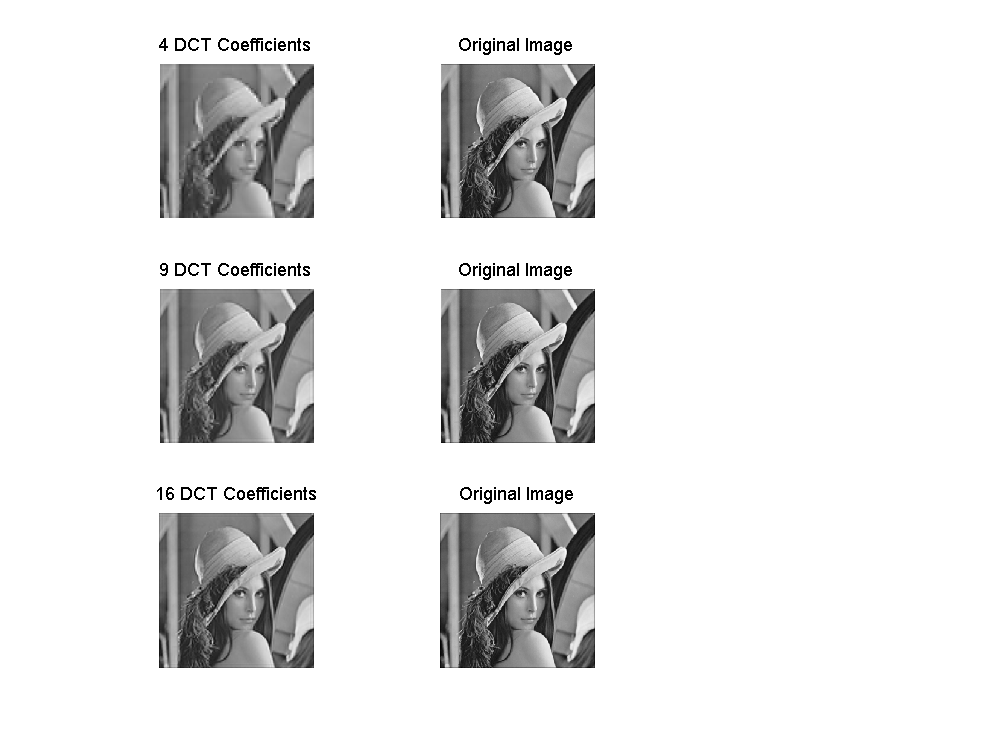
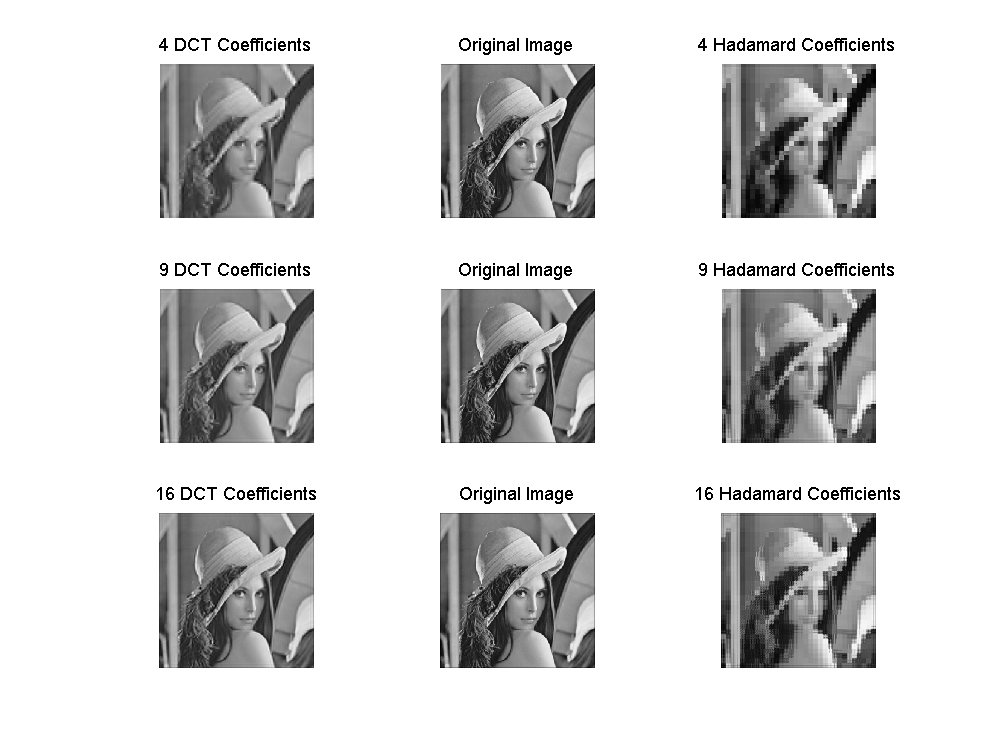
Maybe working. Turning in

Changed region(s): [[0.713, 0.0307, 0.899, 0.3067], [0.713, 0.3373, 0.899, 0.6133], [0.682, 0.644, 0.899, 0.8893]]

diff --git a/Proj4.m b/Proj4.m
@@ -63,48 +63,51 @@ fprintf('MSE for zonal_4: %.2f\n', zonal_4.mse);
 fprintf('MSE for zonal_9: %.2f\n', zonal_9.mse);
 fprintf('MSE for zonal_16: %.2f\n', zonal_16.mse);
 
-saveFigs(fig2, 'ZonalSampling.png', 'png');
 
 %% 1.3 Hadamard
 
-% H = (1/sqrt(8)) * hadamard(blocksize(1));
-% 
-% fun = @(block_struct) hadamard(block_struct.data);
-% lenaH = blockproc(lena_original, blocksize, fun);
-% 
-% 
-
 H = (1/sqrt(8))*hadamard(8);
+Zero = zeros(8);
+Mask4 = Zero;
+Mask9 = Zero;
+Mask16 = Zero;
+Mask4(1:2, 1:2) = 1;
+Mask9(1:3, 1:3) = 1;
+Mask16(1:4, 1:4) = 1;
 
 % 4 Coefficients
-% lenaH = blkproc(lena_original, [8,8], 'P1*x*P2', H, H');
-% fun = @(block_struct) zonal_4.maskcoeff .* block_struct.data;
-% lena4H = blockproc(lenaH, [8 8], fun);
-% lena4H = blkproc(lena4H, [8,8], 'P1*x*P2', H, H');
-figure(3)
-hadamard4 = hadamard_transform(lena_original, blocksize, 4);
-imshow(hadamard4,[]);
-% 
-% subplot(3, 3, 3);
-% imshow(lena4H, []);
-% title('4 Hadamard Coefficients')
-% 
-% % 9 Coefficients
-% lenaH = blkproc(lena_original, [8,8], 'P1*x*P2', H, H');
-% fun = @(block_struct) zonal_9.maskcoeff .* block_struct.data;
-% lena9H = blockproc(lenaH, [8 8], fun);
-% lena9H = blkproc(lena9H, [8,8], 'P1*x*P2', H, H');
-% 
-% subplot(3, 3, 6);
-% imshow(lena9H, []);
-% title('9 Hadamard Coefficients')
-% 
-% % 9 Coefficients
-% lenaH = blkproc(lena_original, [8,8], 'P1*x*P2', H, H');
-% fun = @(block_struct) zonal_16.maskcoeff .* block_struct.data;
-% lena16H = blockproc(lenaH, [8 8], fun);
-% lena16H = blkproc(lena16H, [8,8], 'P1*x*P2', H, H');
-% 
-% subplot(3, 3, 9);
-% imshow(lena16H, []);
-% title('16 Hadamard Coefficients')
+lenaH = blkproc(lena_original, [8,8], 'P1*x*P2', H, H');
+fun = @(block_struct) Mask4.*block_struct.data;
+lena4H = blockproc(lenaH, [8 8], fun);
+lena4H = blkproc(lena4H, [8,8], 'P1*x*P2', H, H');
+
+subplot(3, 3, 3);
+imshow(lena4H, []);
+title('4 Hadamard Coefficients')
+
+% 9 Coefficients
+lenaH = blkproc(lena_original, [8,8], 'P1*x*P2', H, H');
+fun = @(block_struct) Mask9.*block_struct.data;
+lena9H = blockproc(lenaH, [8 8], fun);
+lena9H = blkproc(lena9H, [8,8], 'P1*x*P2', H, H');
+
+subplot(3, 3, 6);
+imshow(lena9H, []);
+title('9 Hadamard Coefficients')
+
+% 9 Coefficients
+lenaH = blkproc(lena_original, [8,8], 'P1*x*P2', H, H');
+fun = @(block_struct) Mask16.*block_struct.data;
+lena16H = blockproc(lenaH, [8 8], fun);
+lena16H = blkproc(lena16H, [8,8], 'P1*x*P2', H, H');
+
+subplot(3, 3, 9);
+imshow(lena16H, []);
+title('16 Hadamard Coefficients')
+
+fprintf('MSE for Hadamard 4: %.2f\n', meanSquaredError(lena_original, lena4H));
+fprintf('MSE for Hadamard 9: %.2f\n', meanSquaredError(lena_original, lena9H));
+fprintf('MSE for Hadamard 16: %.2f\n', meanSquaredError(lena_original, lena16H));
+
+
+saveFigs(fig2, 'ZonalSampling.png', 'png');
